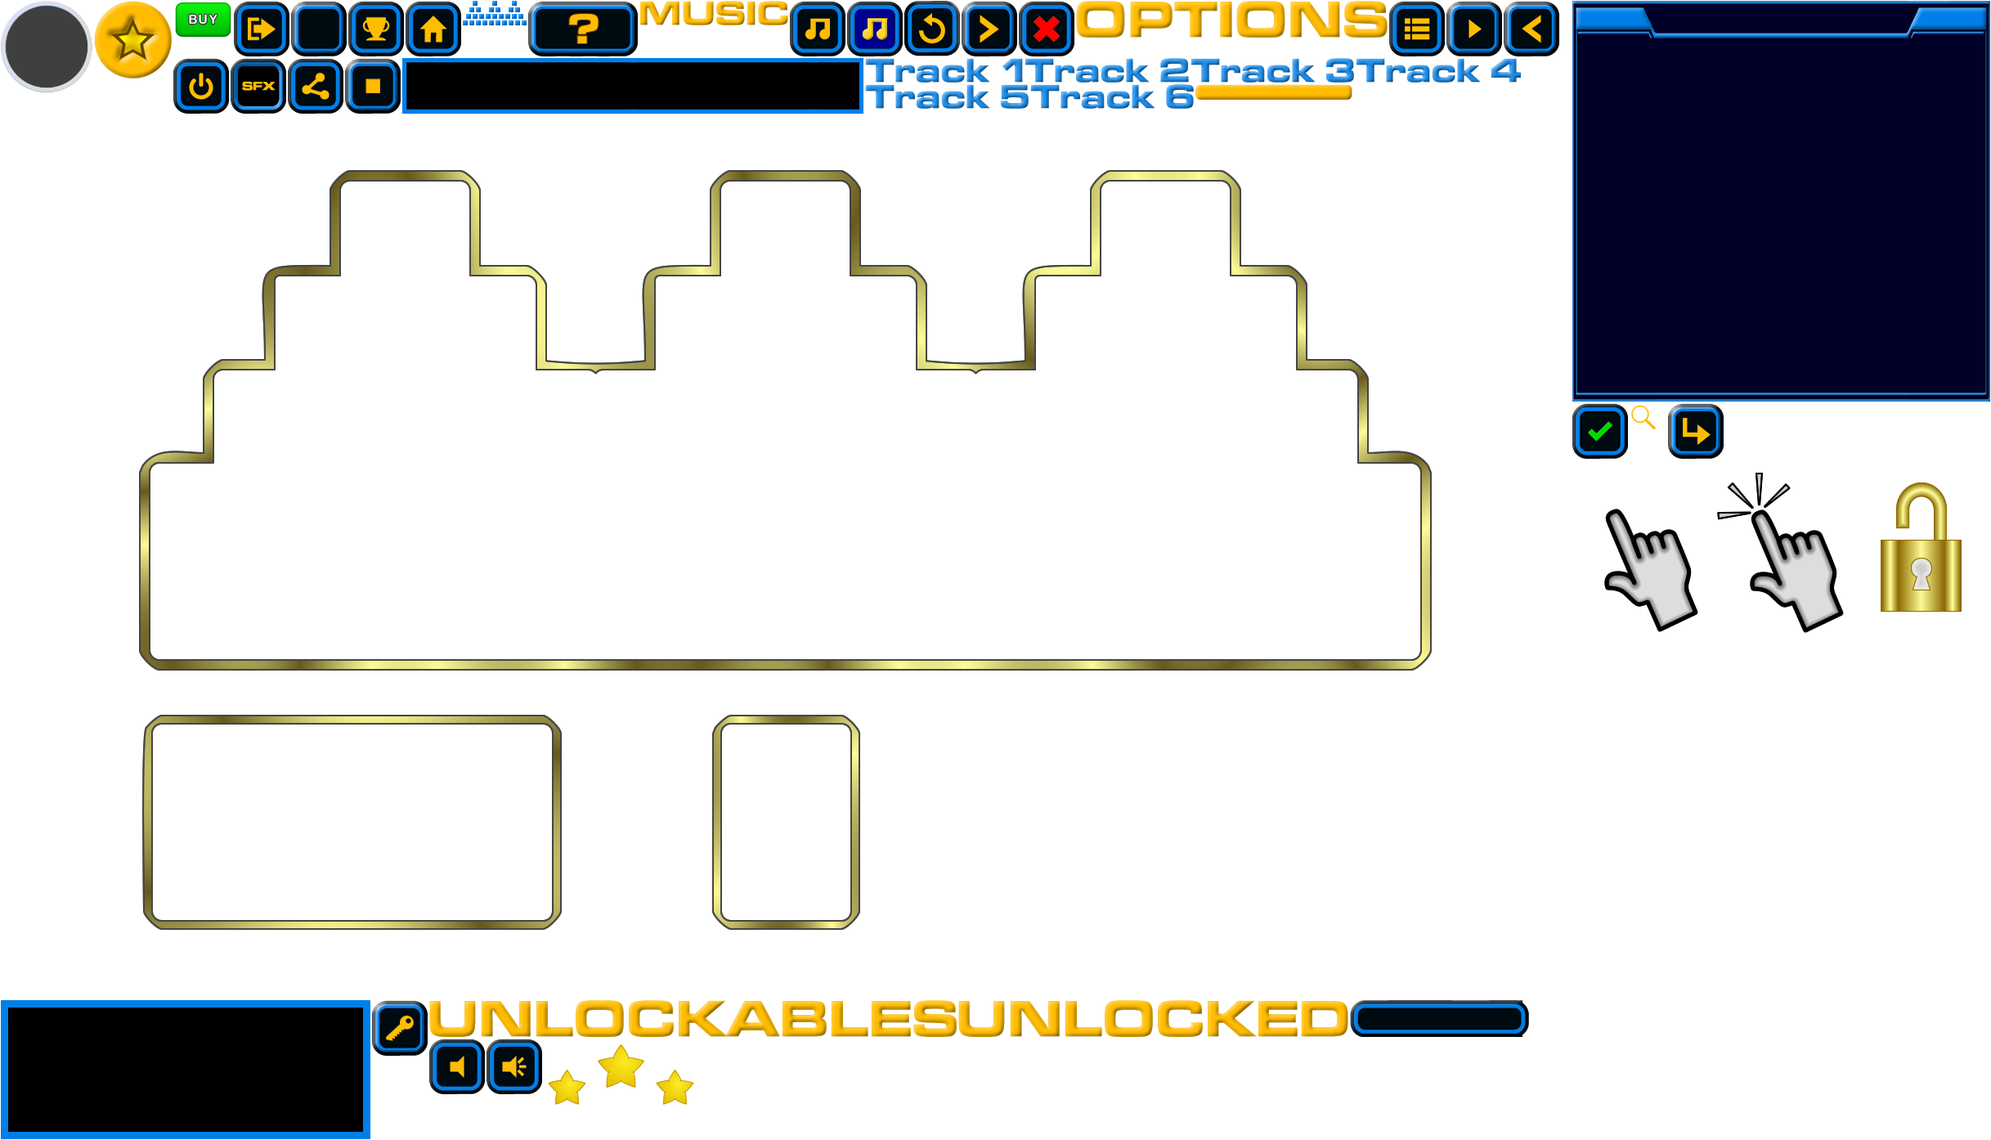
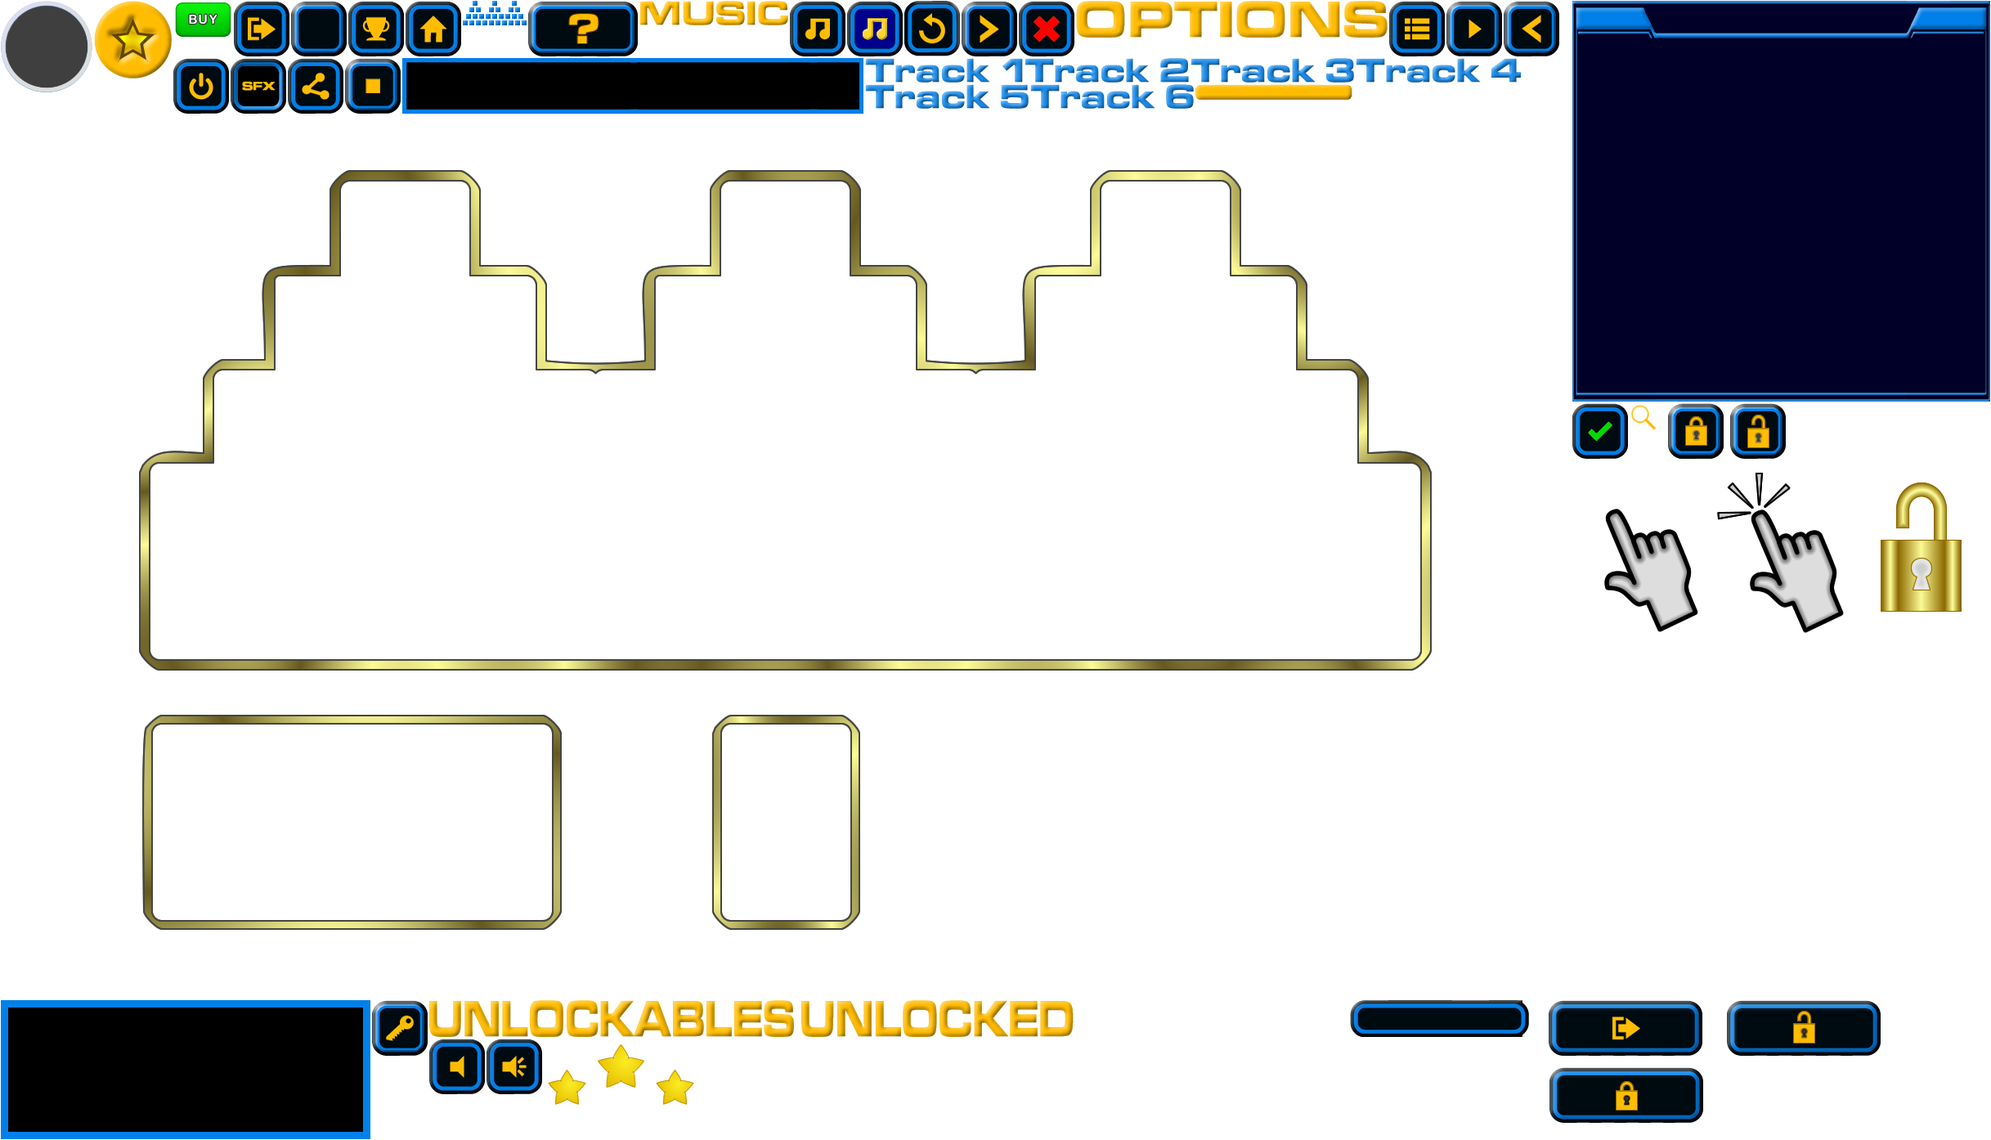
Rev 083 & 084

Changed region(s): [[0.2185, 0.8637, 0.6867, 0.9254], [0.7803, 0.8637, 0.9676, 0.9871], [0.8427, 0.3393, 0.9051, 0.401]]

diff --git a/js/vars.js b/js/vars.js
@@ -1,7 +1,7 @@
 "use strict";
 var vars = {
     version: 0.99,
-    revision: 'rev 082.008',
+    revision: 'rev 084.008',
     // rev [aaa].[bbb] where [bbb] is the sub revision with regards to speeding up the game on phones
     revisionInfo: [
         'Beta State: Unlocks are now fully set up. Still to implement switching card sets. Tints work though :)',
@@ -78,6 +78,8 @@ var vars = {
         'Revision 080   - Added the options screens main buttons to the list of availables so I can enable closing the options page with the escape key',
         'Revision 081   - Escape key works on all pages apart from mainScreen.',
         'Revision 082   - Left and right keys now works on all pages with multiple sub pages (unlockeds/unlocks, hs)',
+        'Revision 083   - Added grey scale shader for the give 2k button. Integrated into the initial main screen UP count',
+        'Revision 084   - Modified the UP animation (mainScren) to allow for the give2k to animate to the new UP count',
 
         'SPEED UP REVISIONS (mainly for phones)',
         'Revision 001   - Started speeding everything up. Removed crossfades for phones as theyre pretty slow',
@@ -444,6 +446,8 @@ var vars = {
         shaders: {
             load: ()=> {
                 scene.load.glsl('fireworks', `shaders/fireworks/fireworks.frag`);
+
+                scene.load.plugin('rexgrayscalepipelineplugin', 'plugins/grayscalepipelineplugin.min.js', true);
             }
         },
 
@@ -1232,21 +1236,28 @@ var vars = {
             })
         },
 
-        mainPageUPCount: ()=> {
+        mainPageUPCount: (_init=true)=> {
             let unlockPoints = vars.game.unlockPoints;
             if (!unlockPoints) return false;
 
+            let fromTo = [0,unlockPoints];
+            if (!_init) { // we need the current count visible on main screen
+                let currentUPCount = ~~(scene.containers.mainScreen.getByName(`playersUPCountMainScreen`).text.split(' ')[0]);
+                fromTo = [currentUPCount,unlockPoints];
+            };
             // player has UP coins, start the count up
             scene.tweens.addCounter({
-                from: 0, to: unlockPoints,
+                from: fromTo[0], to: fromTo[1],
                 duration: 2500,
-                ease: 'Quad.easeIn',
+                ease: 'Expo',
                 // update the UP count
                 onUpdate: (_t,_v)=> {
                     let currentCount = ~~_v.value;
                     if (~~_v.value>100000) { currentCount = '>99999'; };
                     scene.containers.mainScreen.getByName(`playersUPCountMainScreen`).setText(`${currentCount} Unlock Points`);
-                }
+                },
+                onStart: vars.anims.gimme2KColourToGrey,
+                onComplete: vars.anims.gimme2KGreyToColour
             });
         },
 
@@ -1279,6 +1290,32 @@ var vars = {
                     });
                 } else {
                     console.error(`Unknown object (${_o.name}) !`);
+                }
+            });
+        },
+
+        gimme2KGreyToColour: ()=> {
+            let p = vars.shaders.getGrayScalePipeLine();
+            let c = vars.containers.getByName('mainScreen');
+            let i = c.getByName('MST_boughtText');
+            scene.tweens.addCounter({
+                from: 1, to: 0,
+                duration: 1000,
+                onUpdate: (_t,_v)=> {
+                    p.get(i)[0].setIntensity(_v.value);
+                }
+            });
+        },
+        
+        gimme2KColourToGrey: ()=> {
+            let p = vars.shaders.getGrayScalePipeLine();
+            let c = vars.containers.getByName('mainScreen');
+            let i = c.getByName('MST_boughtText');
+            scene.tweens.addCounter({
+                from: 0, to: 1,
+                duration: 250,
+                onUpdate: (_t,_v)=> {
+                    p.get(i)[0].setIntensity(_v.value);
                 }
             });
         }
@@ -2261,6 +2298,8 @@ var vars = {
                 if (gameObject.name==='MS_buy') {
                     if (vars.localStorage.unlocked) { // game has been bought, give 2000UPs
                         vars.game.unlockPoints += 2000;
+                        vars.localStorage.updateUnlockPoints();
+                        vars.game.unlockables.showRandomRollButton();
                         vars.game.unlockables.updateUIUnlockPoints();
                     } else {
                         vars.DEBUG ? console.log(`BUY button doesnt currently do anything. Itll eventually allow you to buy the game for £1.99`) : null;
@@ -3216,6 +3255,9 @@ var vars = {
 
     shaders: {
         available: [],
+        greyScales: { // contains a list of buttons in the format spriteName: { object: phaserObject }
+
+        },
         fireworksRes: 1/8, // this is the resolution of the shader. Low end phones should be 0.1 -> high end PCs at 1 (=1/4*1080p -> 1*1080p)
 
         init: ()=> {
@@ -3236,6 +3278,10 @@ var vars = {
             let res = 1/vars.shaders.fireworksRes;
             let fireworks = scene.add.image(cC.cX,cC.cY,'fireworks').setScale(res);
             return fireworks;
+        },
+
+        getGrayScalePipeLine: ()=> {
+            return scene.plugins.get('rexgrayscalepipelineplugin');
         }
     },
 
@@ -3415,6 +3461,7 @@ var vars = {
                 let buttonText;
                 if (_key==='buy' && vars.localStorage.unlocked) {
                     buttonText = scene.add.image(cC.width*0.75, y, 'mainScreen', `boughtText`).setName(`MST_boughtText`).setAlpha(0).setDepth(depth);
+                    vars.shaders.getGrayScalePipeLine().add(buttonText, { intensity: 1 });
                 } else {
                     buttonText = scene.add.image(cC.width*0.75, y, 'mainScreen', `${_key}Text`).setName(`MST_${_key}Text`).setAlpha(0).setDepth(depth);
                 };
@@ -3503,7 +3550,6 @@ var vars = {
         },
 
         initOptionsScreen: ()=> {
-            // currently KB is NOT supported! (too much stuff on the page)
             // get the loaded options
             let mO = vars.localStorage.options.music;
             let screenName = 'optionsScreen';
@@ -3520,19 +3566,16 @@ var vars = {
             container.add(optionsBG);
 
             // HEADERS
-            let optionsHeader = scene.add.image(330,155,'ui','optionsHeader');
-            let unlockSwapButton = scene.add.image(805,155,'ui','changeUnlockTypeIcon').setName('unlockablesHeader_button').setInteractive(); // we add this button after the play/on/off buttons
-            pageButtons[screenName].push('unlockablesHeader_button');
-            unlockSwapButton.on('pointerup', vars.input.switchVisibleUnlocksContainer);
-            let unlockablesHeader = scene.add.image(865,155,'ui','unlockablesHeader').setName('unlockablesHeader').setOrigin(0,0.5).setInteractive();
+            let optionsHeader = scene.add.image(330,170,'ui','optionsHeader');
+            let unlockablesHeader = scene.add.image(665,155,'ui','unlockablesHeader').setName('unlockablesHeader').setOrigin(0,0.5).setInteractive();
             unlockablesHeader.on('pointerup', vars.input.switchVisibleUnlocksContainer);
 
             let unlockPoints = vars.game.unlockPoints>99999 ? '>99999' : vars.game.unlockPoints;
-            let upCount = scene.add.bitmapText(cC.width-245, 155, 'defaultFont', unlockPoints, 48).setOrigin(1,0.5).setName(`optionsScreenUPCount`).setTint(0xFFBC00);
-            let coinImage = scene.add.image(cC.width-205, 155,'coins','gold').setName('UIOUPCoin').setScale(0.75);
+            let upCount = scene.add.bitmapText(cC.width-315, 155, 'defaultFont', unlockPoints, 48).setOrigin(1,0.5).setName(`optionsScreenUPCount`).setTint(0xFFBC00);
+            let coinImage = scene.add.image(cC.width-275, 155,'coins','gold').setName('UIOUPCoin').setScale(0.75);
 
             let musicHeader = scene.add.image(315,400,'ui','musicHeader');
-            container.add([optionsHeader,unlockablesHeader,unlockSwapButton,musicHeader,upCount,coinImage]);
+            container.add([optionsHeader,unlockablesHeader,musicHeader,upCount,coinImage]);
 
             // MUSIC TRACKS SECTION
             let x = 530; let y = 510;
@@ -3581,10 +3624,13 @@ var vars = {
             playingBar.setCrop(0,0,0,wh[1]); // crop it back to 0 px wide
             container.add(playingBar);
 
-            // CLOSE OPTIONS BUTTON
-            let close = scene.add.image(cC.width-10, cC.height-10, 'ui', 'closeOptionsIcon').setOrigin(1,1).setName('options_close').setInteractive();
-            pageButtons[screenName].push('options_close');
-            container.add(close);
+            // FAR RIGHT OPTION BUTTONS
+            let unlockSwapButton = scene.add.image(cC.width-10,125,'ui','optLockedButton').setOrigin(1,0).setName('unlockablesHeader_button').setInteractive(); // we add this button after the play/on/off buttons
+            pageButtons[screenName].push('unlockablesHeader_button');
+            unlockSwapButton.on('pointerup', vars.input.switchVisibleUnlocksContainer);
+            let close = scene.add.image(cC.width-10, cC.height-55, 'ui', 'optExitButton').setOrigin(1,1).setName('options_close').setInteractive();
+            pageButtons[screenName].push('options_close','');
+            container.add([close,unlockSwapButton]);
 
             // update this container to show current volume
             vars.UI.updateVolume();

diff --git a/js/classes/Unlockables.js b/js/classes/Unlockables.js
@@ -160,11 +160,11 @@ let Unlockables = class {
         this.winHighlight    = this.scene.add.image(this.cC.cX,this.cC.cY,'unlockUI','winHighlight').setDepth(5).setName(`winHighlight`);
 
         let fS = 20; let fF = 'Consolas';
-        this.unlockName = this.scene.add.text(this.cC.cX, this.cC.cY-140, '???', { fontFamily: fF, fontSize: fS, color: consts.htmlColours.orange }).setName(`unlockName`);
+        this.unlockName = this.scene.add.text(this.cC.cX, this.cC.cY-150, '???', { fontFamily: fF, fontSize: fS, color: consts.htmlColours.orange }).setName(`unlockName`);
         this.unlockName.setStroke(consts.htmlColours.blueDark, 2).setOrigin(0.5).setDepth(4).setData({ actualID: null });
         this.unlockName.setShadow(2, 2, "#333333", 2, true, true);
         
-        this.typeTextObject = this.scene.add.text(this.cC.cX, this.cC.cY+140, '???', { fontFamily: fF, fontSize: fS, color: consts.htmlColours.orange }).setName(`unlockTypeText`);
+        this.typeTextObject = this.scene.add.text(this.cC.cX, this.cC.cY+150, '???', { fontFamily: fF, fontSize: fS, color: consts.htmlColours.orange }).setName(`unlockTypeText`);
         this.typeTextObject.setStroke(consts.htmlColours.blueDark, 2).setOrigin(0.5).setDepth(4);
         this.typeTextObject.setShadow(2, 2, "#333333", 2, true, true);
 
@@ -180,14 +180,15 @@ let Unlockables = class {
         let container2 = this.containers.unlocked;
 
         // OTHER BUTTONS
-        let prev = this.scene.add.image(215,615,'ui','previousIcon').setName(`UNL_previous`).setInteractive();
-        let pageText = this.scene.add.bitmapText(495, 613,'defaultFont',`PAGE ${this.currentPage+1} of ${this.totalPages}`,48).setOrigin(0.5).setDepth(2);
-        let next = this.scene.add.image(785,615,'ui','nextIcon').setName(`UNL_next`).setInteractive();
+        // UNLOCKABLES
+        let prev = this.scene.add.image(235,615,'ui','previousIcon').setName(`UNL_previous`).setInteractive();
+        let pageText = this.scene.add.bitmapText(515, 613,'defaultFont',`PAGE ${this.currentPage+1} of ${this.totalPages}`,48).setOrigin(0.5).setDepth(2);
+        let next = this.scene.add.image(805,615,'ui','nextIcon').setName(`UNL_next`).setInteractive();
         container.add([prev,next,pageText]);
-
-        let prevULD = this.scene.add.image(100,655,'ui','previousIcon').setName(`UNLD_previous`).setInteractive();
-        let pageTextULD = this.scene.add.bitmapText(380, 653,'defaultFont',`PAGE 0 of 0`,48).setOrigin(0.5).setDepth(2);
-        let nextULD = this.scene.add.image(670,655,'ui','nextIcon').setName(`UNLD_next`).setInteractive();
+        // UNLOCKED
+        let prevULD = this.scene.add.image(100,725,'ui','previousIcon').setName(`UNLD_previous`).setInteractive();
+        let pageTextULD = this.scene.add.bitmapText(380, 723,'defaultFont',`PAGE 0 of 0`,48).setOrigin(0.5).setDepth(2);
+        let nextULD = this.scene.add.image(670,725,'ui','nextIcon').setName(`UNLD_next`).setInteractive();
         container2.add([prevULD,pageTextULD,nextULD]);
         
         
@@ -220,8 +221,8 @@ let Unlockables = class {
 
 
         // position the containers
-        container.setPosition(735,325);
-        container2.setPosition(875,265);
+        container.setPosition(625,325);
+        container2.setPosition(765,190);
 
         // set the min count
         this.optionsMinCount = container.length;
@@ -563,7 +564,7 @@ let Unlockables = class {
         // unlocked vars
         this.ULd = {
             xMin: 60, x: 60, xInc: 200,
-            yMin: 60, y: 60, yInc: 280,
+            yMin: 60, y: 60, yInc: 300,
             tintWidth: 154, tintHeight: 234,
             unlockedCount: 0, pages: 0, currentPage: 0,
             maxPerPage: 10
@@ -769,10 +770,11 @@ let Unlockables = class {
     showRandomRollButton() { // SHOW RANDOM ROLL BUTTON IF PLAYER HAS ENOUGH UPs (and vice versa)
         if (vars.game.unlockPoints<consts.unlockPoints.randomRoll) {
             this.randomRollText.setFrame('randomRollUnavailableText').disableInteractive();
-            this.tweens.randomRollButton.paused=true;
+            this.tweens.randomRollButton.pause();
+            this.randomRollText.setScale(1);
         } else {
             this.randomRollText.setFrame('randomRollText').setInteractive();
-            this.tweens.randomRollButton.paused=false;
+            this.tweens.randomRollButton.resume();
         };
     }
 
@@ -796,7 +798,10 @@ let Unlockables = class {
         };
 
         let frame = optionsVisible ? 'unlockedHeader' : 'unlockablesHeader';
-        scene.containers.optionsScreen.getByName('unlockablesHeader').setFrame(frame);
+        let container = scene.containers.optionsScreen;
+        container.getByName('unlockablesHeader').setFrame(frame);
+        frame = optionsVisible ? 'optUnlockedButton' : 'optLockedButton'
+        container.getByName('unlockablesHeader_button').setFrame(frame);
 
         scene.tweens.add({ // hide the currently visible container
             targets: c1,
@@ -887,7 +892,6 @@ let Unlockables = class {
         if (_points>available) return false;
 
         gV.unlockPoints -=_points;
-        this.showRandomRollButton(); // this will show or hide the button based on users updated unlock points
         
         vars.localStorage.updateUnlockPoints(); // update the stored var
 
@@ -991,7 +995,14 @@ let Unlockables = class {
             if (type==='TINT') {
                 text=entry5.name.replace('tint','');
             } else if (type==='CARD SET') {
-                text=entry5.name.replace('cS','').replaceAll('_', '\n');
+                let e5Name = entry5.name;
+                text = e5Name.replace('cS','').replaceAll('_', '\n');
+                if (text.includes('SOS')) {
+                    text = 'Satin ' + text;
+                    text = text.replace('SOS', 'Original Set');
+                } else if (text.includes('OS')) {
+                    text = text.replace('OS', 'Original Set');
+                };
             } else { // UNKNOWN TYPE!
                 text='???';
             };

diff --git a/assets/plugins/grayscalepipelineplugin.min.js b/assets/plugins/grayscalepipelineplugin.min.js
@@ -1,0 +1,1 @@
+!function(e,t){"object"==typeof exports&&"undefined"!=typeof module?module.exports=t():"function"==typeof define&&define.amd?define(t):(e="undefined"!=typeof globalThis?globalThis:e||self).rexgrayscalepipelineplugin=t()}(this,function(){"use strict";function a(e){return(a="function"==typeof Symbol&&"symbol"==typeof Symbol.iterator?function(e){return typeof e}:function(e){return e&&"function"==typeof Symbol&&e.constructor===Symbol&&e!==Symbol.prototype?"symbol":typeof e})(e)}function i(e,t){if(!(e instanceof t))throw new TypeError("Cannot call a class as a function")}function r(e,t){for(var n=0;n<t.length;n++){var r=t[n];r.enumerable=r.enumerable||!1,r.configurable=!0,"value"in r&&(r.writable=!0),Object.defineProperty(e,r.key,r)}}function o(e,t,n){return t&&r(e.prototype,t),n&&r(e,n),Object.defineProperty(e,"prototype",{writable:!1}),e}function s(e,t){if("function"!=typeof t&&null!==t)throw new TypeError("Super expression must either be null or a function");e.prototype=Object.create(t&&t.prototype,{constructor:{value:e,writable:!0,configurable:!0}}),Object.defineProperty(e,"prototype",{writable:!1}),t&&n(e,t)}function u(e){return(u=Object.setPrototypeOf?Object.getPrototypeOf:function(e){return e.__proto__||Object.getPrototypeOf(e)})(e)}function n(e,t){return(n=Object.setPrototypeOf||function(e,t){return e.__proto__=t,e})(e,t)}function f(e,t){if(t&&("object"==typeof t||"function"==typeof t))return t;if(void 0!==t)throw new TypeError("Derived constructors may only return object or undefined");return function(e){if(void 0===e)throw new ReferenceError("this hasn't been initialised - super() hasn't been called");return e}(e)}function l(r){var i=function(){if("undefined"==typeof Reflect||!Reflect.construct)return!1;if(Reflect.construct.sham)return!1;if("function"==typeof Proxy)return!0;try{return Boolean.prototype.valueOf.call(Reflect.construct(Boolean,[],function(){})),!0}catch(e){return!1}}();return function(){var e,t=u(r);if(i){var n=u(this).constructor;e=Reflect.construct(t,arguments,n)}else e=t.apply(this,arguments);return f(this,e)}}function c(e){return null==e||""===e||0===e.length}var e=Phaser.Renderer.WebGL.Pipelines.PostFXPipeline,t=Phaser.Utils.Objects.GetValue,p=function(){s(r,e);var n=l(r);function r(e){var t;return i(this,r),(t=n.call(this,{name:"rexGrayScalePostFx",game:e,renderTarget:!0,fragShader:"#ifdef GL_FRAGMENT_PRECISION_HIGH\n#define highmedp highp\n#else\n#define highmedp mediump\n#endif\nprecision highmedp float;\n// Scene buffer\nuniform sampler2D uMainSampler; \nvarying vec2 outTexCoord;\n// Effect parameters\nuniform float intensity;\nvoid main (void) {\n  vec4 front = texture2D(uMainSampler, outTexCoord);\n  float gray = dot(front.rgb, vec3(0.299, 0.587, 0.114));\n  gl_FragColor = mix(front, vec4(gray, gray, gray, front.a), intensity);\n}\n"})).intensity=1,t}return o(r,[{key:"resetFromJSON",value:function(e){return this.setIntensity(t(e,"intensity",1)),this}},{key:"onPreRender",value:function(){this.set1f("intensity",this.intensity)}},{key:"setIntensity",value:function(e){return this.intensity=e,this}}]),r}(),y=Phaser.Utils.Array.SpliceOne,h=function(){s(t,Phaser.Plugins.BasePlugin);var e=l(t);function t(){return i(this,t),e.apply(this,arguments)}return o(t,[{key:"setPostPipelineClass",value:function(e,t){return this.PostFxPipelineClass=e,this.postFxPipelineName=t,this}},{key:"start",value:function(){this.game.events.once("destroy",this.destroy,this),this.game.renderer.pipelines.addPostPipeline(this.postFxPipelineName,this.PostFxPipelineClass)}},{key:"add",value:function(e,t){void 0===t&&(t={}),e.setPostPipeline(this.PostFxPipelineClass);var n=e.postPipelines[e.postPipelines.length-1];return n.resetFromJSON(t),t.name&&(n.name=t.name),n}},{key:"remove",value:function(e,t){var n=this.PostFxPipelineClass;if(void 0===t)for(var r=(i=e.postPipelines).length-1;0<=r;r--){(s=i[r])instanceof n&&(s.destroy(),y(i,r))}else{r=0;for(var i,o=(i=e.postPipelines).length;r<o;r++){var s;(s=i[r])instanceof n&&s.name===t&&(s.destroy(),y(i,r))}}return this}},{key:"get",value:function(e,t){var n=this.PostFxPipelineClass;if(void 0===t){for(var r=[],i=0,o=(s=e.postPipelines).length;i<o;i++){(u=s[i])instanceof n&&r.push(u)}return r}var s;for(i=0,o=(s=e.postPipelines).length;i<o;i++){var u;if((u=s[i])instanceof n&&u.name===t)return u}}}]),t}(),d=function(){s(r,h);var n=l(r);function r(e){var t;return i(this,r),(t=n.call(this,e)).setPostPipelineClass(p,"rexGrayScalePostFx"),t}return o(r)}();return function(e,t,n){if("object"===a(e)){if(c(t)){if(null==n)return;"object"===a(n)&&(e=n)}else{"string"==typeof t&&(t=t.split("."));var r=t.pop();(function(e,t,n){var r=e;if(!c(t)){var i;"string"==typeof t&&(t=t.split("."));for(var o=0,s=t.length;o<s;o++){var u;if(null==r[i=t[o]]||"object"!==a(r[i]))u=o!==s-1||void 0===n?{}:n,r[i]=u;r=r[i]}}return r})(e,t)[r]=n}}}(window,"RexPlugins.Pipelines.GrayScalePostFx",p),d});
